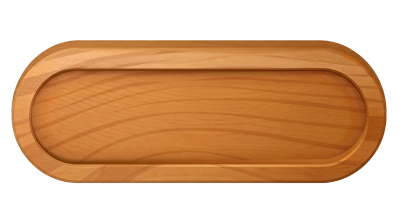
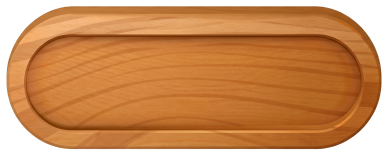
Polish landing X mark and pamphlet page typography
- Landing: swap the rotated X icon for a plain Galmuri11 "X" glyph,
  matching the pamphlet page's style (added the Galmuri font).
- Pamphlet: bump the prologue subtitle and letter text size, switch
  the letter's message/signature to Jeju Gothic, nudge the signature
  left, force a clean line break before "스트레스를 풀어보세요.",
  drop the info-box text to semibold, and crop wood-button.png's
  asymmetric padding so its overlaid button labels sit centered.

diff --git a/public/pamphlet.html b/public/pamphlet.html
@@ -154,7 +154,7 @@
     margin-bottom:8px;
   }
   .lead-sub{
-    font-size:12.5px;
+    font-size:15px;
     color:#5b6b78;
     text-align:center;
     margin-bottom:22px;
@@ -175,14 +175,17 @@
     justify-content:space-between;
   }
   .letter-content .msg{
-    font-size:13px;
+    font-family:'Jeju Gothic', 'Pretendard', sans-serif;
+    font-size:16px;
     font-weight:800;
     color:var(--ink);
     line-height:1.75;
   }
   .letter-content .signature{
+    font-family:'Jeju Gothic', 'Pretendard', sans-serif;
     align-self:flex-end;
-    font-size:11px;
+    margin-right:8%;
+    font-size:13px;
     font-weight:600;
     color:var(--ink);
     margin-top:10px;
@@ -229,7 +232,7 @@
   .info-box-content p{
     display:flex; align-items:center; gap:8px;
     font-size:15px;
-    font-weight:800;
+    font-weight:600;
     color:var(--ink);
     white-space:nowrap;
   }
@@ -310,7 +313,7 @@
       </div>
 
       <p class="desc-line">고창의 바람과 햇살을 그대로 담아낸 한 잔.</p>
-      <p class="desc-line">온라인에서 즐기던 <span class="hl-green">힐링</span>을 유기농 <span class="hl-blue">우유</span>와 <span class="hl-gold">치즈</span>를 먹으며 도심 속 스트레스를 풀어보세요.</p>
+      <p class="desc-line">온라인에서 즐기던 <span class="hl-green">힐링</span>을 유기농 <span class="hl-blue">우유</span>와 <span class="hl-gold">치즈</span>를 먹으며 도심 속<br>스트레스를 풀어보세요.</p>
 
       <div class="info-box">
         <img class="info-box-bg" src="images/info-box-bg.png" alt="">

diff --git a/src/components/LandingStep.tsx b/src/components/LandingStep.tsx
@@ -12,7 +12,6 @@ import titleImgSubtitle from '../assets/landing/title-img-subtitle.png'
 import titleLogoSanghaFarm from '../assets/landing/title-logo-sangha-farm.png'
 import titleLogoStardewValley from '../assets/landing/title-logo-stardew-valley.png'
 import titleImgMainTitle from '../assets/landing/title-img-main-title.png'
-import titleIconX from '../assets/landing/title-icon-x.svg'
 import headerLogoIcon from '../assets/landing/header-logo-icon.svg'
 import headerIconMenu from '../assets/landing/header-icon-menu.svg'
 
@@ -95,7 +94,7 @@ export default function LandingStep({ onStart }: { onStart: () => void }) {
         <img src={titleLogoStardewValley} alt="STARDEW VALLEY" className="size-full object-contain" />
       </Box>
       <Box left={49.447} top={27.46} width={4.282} height={2.088} className="pointer-events-none flex items-center justify-center">
-        <img src={titleIconX} alt="x" style={{ width: '95.49%', height: '96.03%', transform: 'rotate(2.59deg) skewX(0.09deg)' }} />
+        <span className="font-['Galmuri11'] text-[20px] font-bold text-[#3a2612]">X</span>
       </Box>
       <Box left={57.463} top={26.545} width={24.129} height={4.577} className="pointer-events-none">
         <img src={titleLogoSanghaFarm} alt="상하목장 ORGANIC" className="size-full object-contain" />

diff --git a/index.html b/index.html
@@ -10,6 +10,7 @@
       href="https://fonts.googleapis.com/css2?family=Inter:wght@400;500;700;900&display=swap"
       rel="stylesheet"
     />
+    <link rel="stylesheet" href="https://cdn.jsdelivr.net/npm/galmuri@latest/dist/galmuri.css" />
     <title>나만의 농부 캐릭터 만들기</title>
   </head>
   <body>
